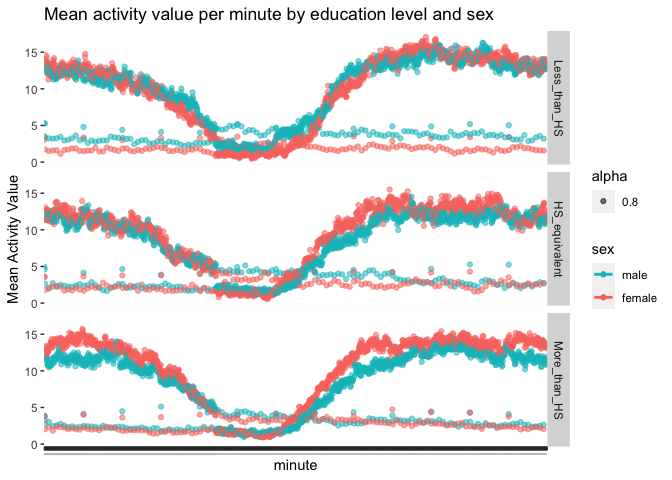
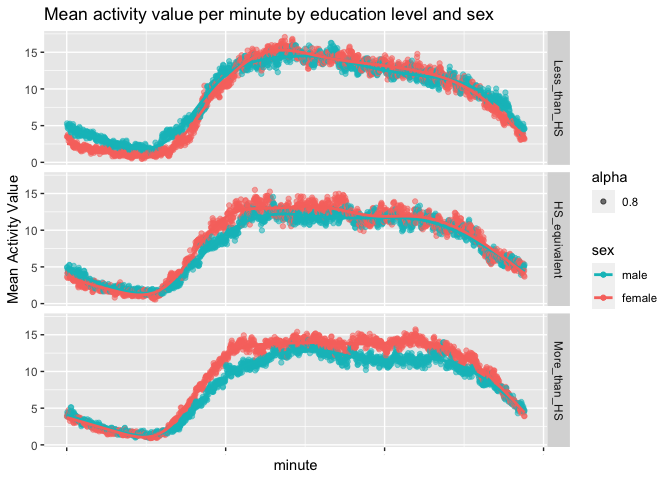
Fixed filter logic, added in more details about plots.

diff --git a/p8105_hw3_jl5934.md b/p8105_hw3_jl5934.md
@@ -185,7 +185,7 @@ BRFSS %>%
 | TX    |    16 |
 | WA    |    10 |
 
-- There are 14 states with ore than 7 observations in 2010.
+- There are 14 states with more than 7 observations in 2010.
 
 ``` r
 BRFSS %>%
@@ -231,10 +231,6 @@ BRFSS %>%
 
 ![](p8105_hw3_jl5934_files/figure-gfm/data%20values%20for%20NY%20across%20years-1.png)<!-- -->
 
-``` r
-  #viridis::scale_color_viridis(option = "magma") 
-```
-
 We have plotted the mean `data_value` for each location within NY (Bronx
 County, Erie County, Kings County, Monroe County, Nassau County, New
 York County, Queens County, Suffolk County, & Westchester County) for
@@ -243,13 +239,16 @@ the years 2006 and 2010 separately.
 - Of note there were several counties without information in 2006:
   Bronx, Erie, Monroe.
 
-- In general there seems to be a trend towards ore poor health, and
-  lower excellent health over time.
+- In general there seems to be a trend towards more ‘Poor’ health, and
+  lower ‘Excellent’ health over time.
+
+- Overall the majority of responess are within the ‘Good’ and ‘Very
+  Good’ categories.
 
 # Problem 3
 
 We will import the dataframes from NHANES for the acceleratomer data
-`accel.df` and demographic data `covar.df`. We will filter out subhects
+`accel.df` and demographic data `covar.df`. We will filter out subjects
 from the demographic dataframe `covar.df` based on age (remove those
 less than 21 years), remove those with missing demographic data, and
 recode `education` and `sex` as appropriate factors.
@@ -316,12 +315,12 @@ accel_covar.df %>%
 | female | More_than_HS  |    59 |
 
 - For both Males and Females, the majority had education that was more
-  than high school equivalent. However in second rank for males was high
-  school equivalent and last less then high school; whereas for females
+  than high school equivalent. However in second rank for Males was high
+  school equivalent and last less then high school; whereas for Females
   it was less than high school in second rank then high school
   equivalent in last rank.
 
-Making plot of age distribution by education level and sex.
+Next we will make a plot of age distribution by education level and sex.
 
 ``` r
 accel_covar.df %>%
@@ -341,7 +340,7 @@ accel_covar.df %>%
 
 - In both gender groups, there is a much small distribution of ages for
   the less than HS group compared to the other two. In addition, in both
-  groups, the lowest age median is in the ore than high school (for
+  groups, the lowest age median is in the more than high school (for
   males the highest is less than HS, and for females the highest is HS
   equivalent)
 
@@ -351,8 +350,8 @@ that is the aggregate of the total accelerometer readings for the
 
 ``` r
 accel_covar.df %>%
-  mutate(Total_activity = rowSums(.[6:1445])) %>%
-  ggplot(aes(x = age, y = Total_activity, color = sex)) +
+  mutate(total_activity = rowSums(.[6:1445])) %>%
+  ggplot(aes(x = age, y = total_activity, color = sex)) +
   geom_point() + 
   geom_smooth(se= FALSE) +
   labs(x = "Age in years", y = "Total Activity", title = "Total activity by age, education, and sex") +
@@ -379,11 +378,18 @@ accel_covar.df %>%
 
     ## `summarise()` has grouped output by 'minute', 'sex'. You can override using the
     ## `.groups` argument.
-    ## `geom_smooth()` using method = 'loess' and formula = 'y ~ x'
+    ## `geom_smooth()` using method = 'gam' and formula = 'y ~ s(x, bs = "cs")'
 
 ![](p8105_hw3_jl5934_files/figure-gfm/24-insepction%20by%20eduation%20and%20sex-1.png)<!-- -->
 
-- Looking at the plot demonstrates that there is generally a decrease in
-  activity in the midday, and among all the education groups and both
-  genders there seem to be two separate groups that are either diurnal
-  or nocturnal in their activities.
+- Looking at the plot, there are conserved trends of activity that
+  starts to rise and plateau at around 7AM
+
+- For every education level, males seem to have the higher average
+  activity earlier one, but this trend reverses near 4AM and persists
+  except for the less than high school education group that has some
+  oscillations in which group has higher activity.
+
+- Amongst the groups, less than HS education tends to have slightly
+  higher average activity levels than the other groups, and more than HS
+  the least particularly for males.
